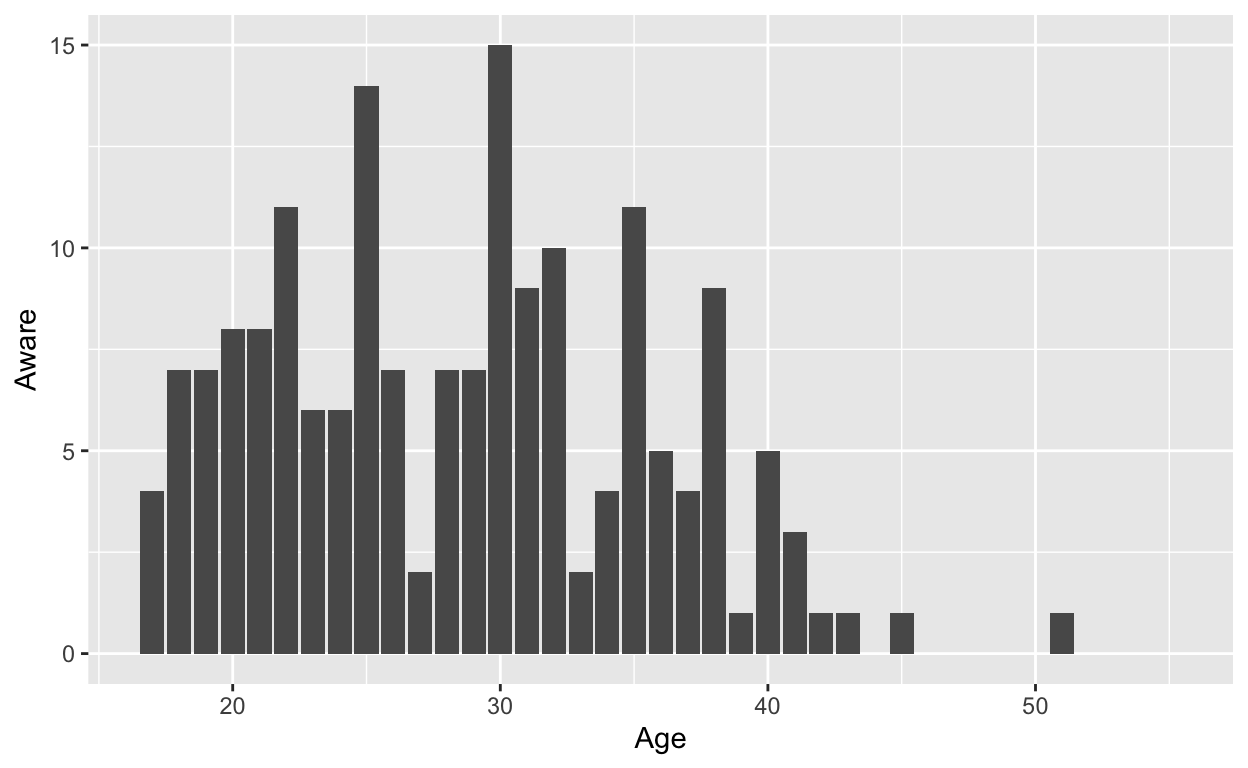
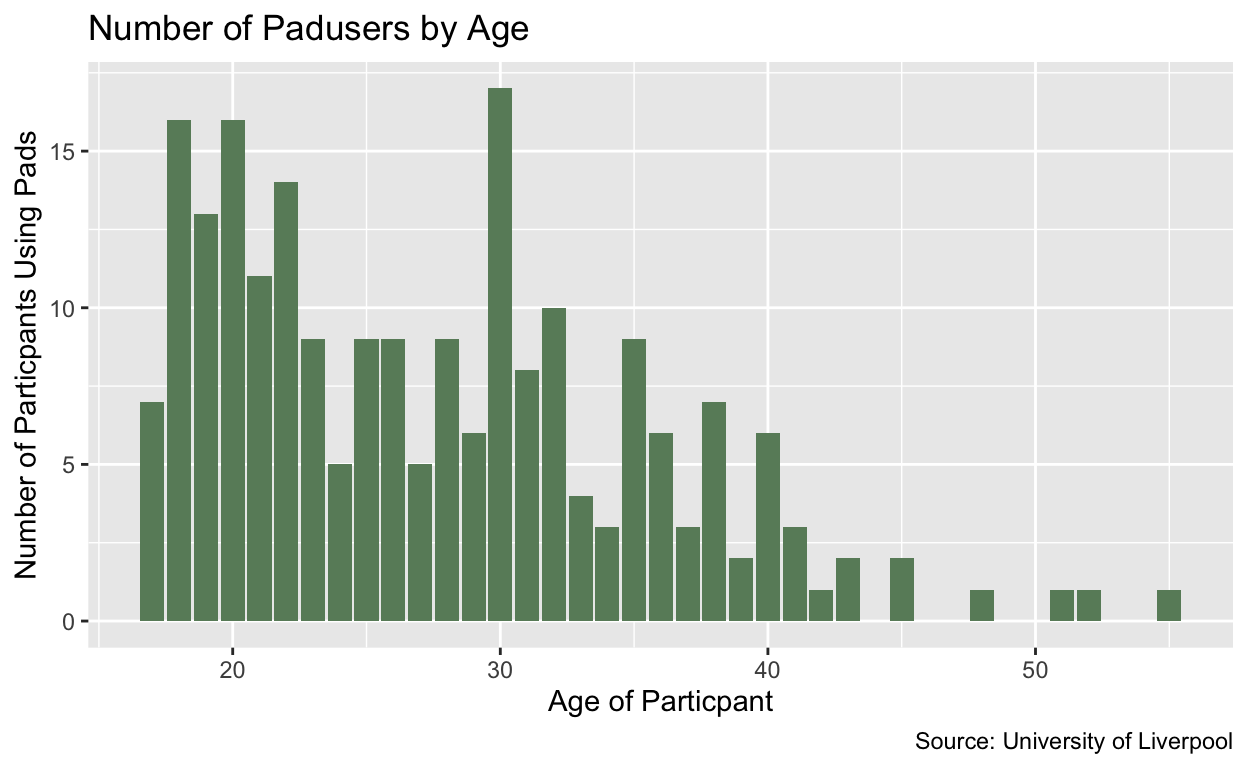
milestone 3

diff --git a/index.html b/index.html
@@ -1524,14 +1524,13 @@ code span.wa { color: #5e5e5e; font-style: italic; } /* Warning */
 <div class="layout-chunk" data-layout="l-body">
 <div class="sourceCode">
 <pre class="sourceCode r"><code class="sourceCode r"><span><span class='kw'><a href='https://rdrr.io/r/base/library.html'>library</a></span><span class='op'>(</span><span class='va'><a href='https://tidyverse.tidyverse.org'>tidyverse</a></span><span class='op'>)</span></span>
-<span><span class='va'>periods</span> <span class='op'>&lt;-</span> <span class='fu'><a href='https://rdrr.io/r/utils/read.table.html'>read.csv</a></span><span class='op'>(</span><span class='st'>"Informed Choice for Better Menstrual Outcomes 2.csv"</span><span class='op'>)</span></span></code></pre>
+<span><span class='va'>periods</span> <span class='op'>&lt;-</span> <span class='fu'><a href='https://readr.tidyverse.org/reference/read_delim.html'>read_csv</a></span><span class='op'>(</span><span class='st'>"Informed Choice for Better Menstrual Outcomes 2.csv"</span><span class='op'>)</span></span></code></pre>
 </div>
 </div>
 <div class="layout-chunk" data-layout="l-body">
 <div class="sourceCode">
 <pre class="sourceCode r"><code class="sourceCode r"><span><span class='va'>periods</span> <span class='op'>|&gt;</span> </span>
-<span>  <span class='fu'><a href='https://dplyr.tidyverse.org/reference/select.html'>select</a></span><span class='op'>(</span><span class='st'>"Age"</span>, <span class='st'>"Aware"</span><span class='op'>)</span> <span class='op'>|&gt;</span> </span>
-<span>  <span class='fu'><a href='https://ggplot2.tidyverse.org/reference/ggplot.html'>ggplot</a></span><span class='op'>(</span> mapping <span class='op'>=</span> <span class='fu'><a href='https://ggplot2.tidyverse.org/reference/aes.html'>aes</a></span><span class='op'>(</span> x <span class='op'>=</span> <span class='va'>Age</span>, y <span class='op'>=</span> <span class='va'>Aware</span><span class='op'>)</span><span class='op'>)</span> <span class='op'>+</span> <span class='fu'><a href='https://ggplot2.tidyverse.org/reference/geom_bar.html'>geom_col</a></span><span class='op'>(</span><span class='op'>)</span></span></code></pre>
+<span>  <span class='fu'><a href='https://ggplot2.tidyverse.org/reference/ggplot.html'>ggplot</a></span><span class='op'>(</span> mapping <span class='op'>=</span> <span class='fu'><a href='https://ggplot2.tidyverse.org/reference/aes.html'>aes</a></span><span class='op'>(</span> x <span class='op'>=</span> <span class='va'>Age</span>, y <span class='op'>=</span> <span class='va'>Padusers</span><span class='op'>)</span><span class='op'>)</span> <span class='op'>+</span> <span class='fu'><a href='https://ggplot2.tidyverse.org/reference/geom_bar.html'>geom_col</a></span><span class='op'>(</span>fill <span class='op'>=</span> <span class='st'>"darkseagreen4"</span><span class='op'>)</span> <span class='op'>+</span> <span class='fu'><a href='https://ggplot2.tidyverse.org/reference/labs.html'>labs</a></span><span class='op'>(</span> x <span class='op'>=</span> <span class='st'>"Age of Particpant"</span>, y <span class='op'>=</span> <span class='st'>"Number of Particpants Using Pads"</span>, title <span class='op'>=</span> <span class='st'>"Number of Padusers by Age"</span>, caption <span class='op'>=</span> <span class='st'>"Source: University of Liverpool"</span><span class='op'>)</span></span></code></pre>
 </div>
 <p><img src="index_files/figure-html5/unnamed-chunk-2-1.png" width="624" /></p>
 </div>
